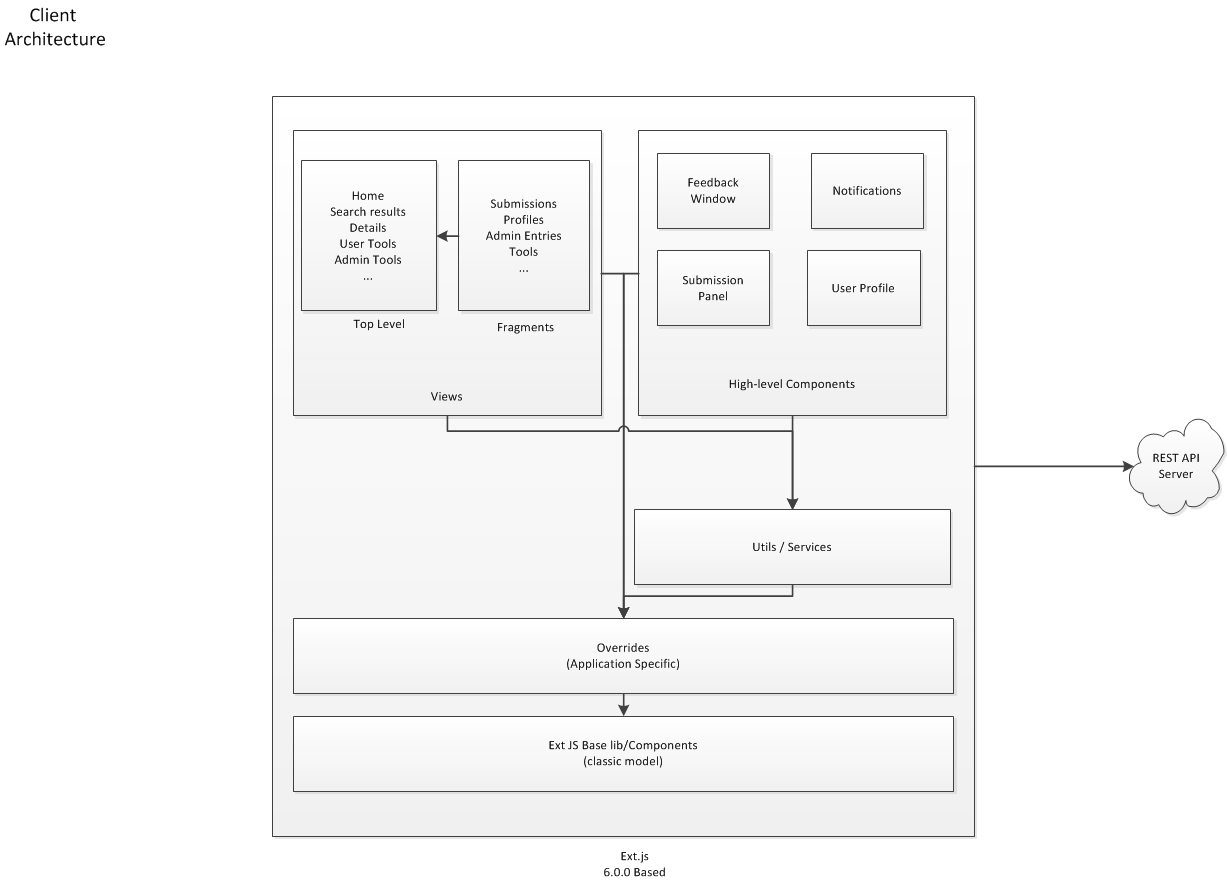
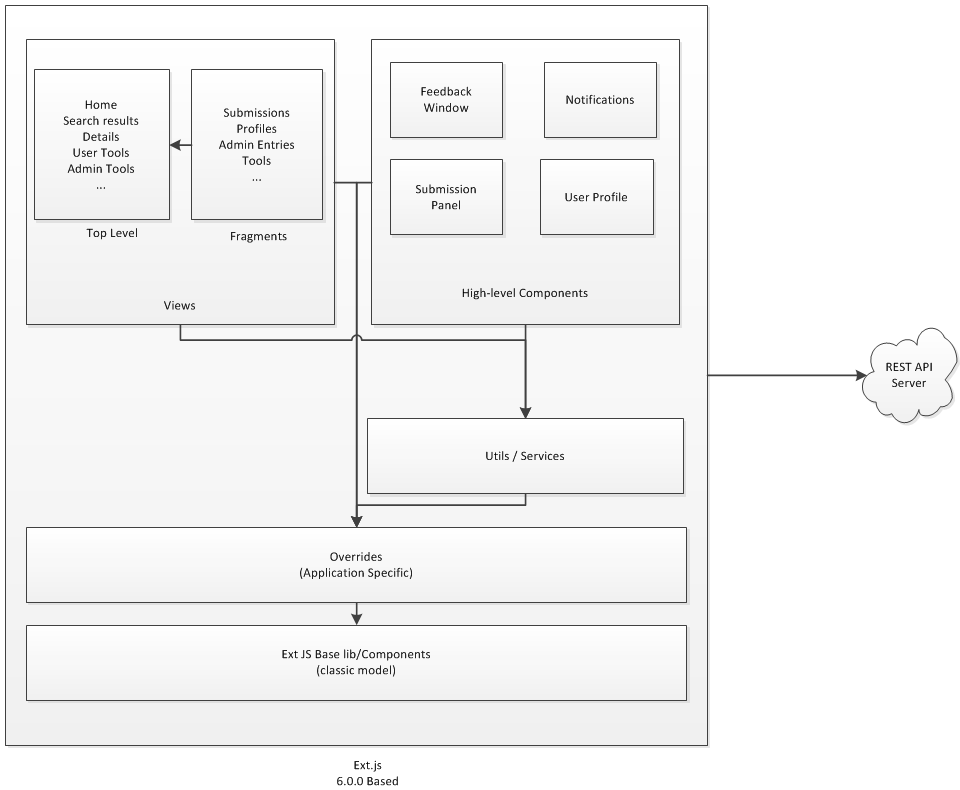
Convert images to figures and remove titles from images

diff --git a/Hugo-StaticGen-Docs/content/dev/Architecture.md b/Hugo-StaticGen-Docs/content/dev/Architecture.md
@@ -7,30 +7,22 @@ weight = 2
 This guide describes the high-level design of the server and client architecture.
 <!--more-->
 
-## 1.  Client Architecture
+## Client Architecture
 
-### 1.1 Client Architecture Diagram
+{{< figure src="/images/client-archtechture-new.png" alt="Client Architecture Diagram" title="Client Architecture Diagram" >}}
 
-![clientarch](/images/client-archtechture-new.png)
-
-Figure 1. Client Architecture Diagram
-
-### 1.2 Client Details
+### Client Details
 
 The client core structure is based on Ext.js which provides UI components and utilities. This significantly reduces third-party dependencies which in turn reduces maintenance, shortens the learning curve, and improves quality and consistency.
 
 In addition, there are application-specific overrides and high-level components created to facilitate reuse.
 The application is composed by stripes layouts with a top-level page and fragment tool pages.
 
-## 2.  Server Architecture
+## Server Architecture
 
-### 2.1 Server Architecture Diagram
+{{< figure src="/images/serverarch.png" alt="Server Architecture Diagram" title="Server Architecture Diagram" >}}
 
-![serverarch](/images/serverarch.png)
-
-Figure 2. Server Architecture Diagram
-
-### 2.2 Server Details
+### Server Details
 
 Component definitions are as follows:
 
@@ -48,9 +40,9 @@ The server build environment relies on the following platforms/tools:
 - **Java** - Core language and platform
 - **Maven** - Used for the project structure, building, and dependency management
 
-## 2.3 Storage Details
+## Storage Details
 
-![storage](/images/storage.png)
+{{< figure src="/images/storage.png" alt="Storage Diagram" title="Storage Diagram" >}}
 
 **File System**  - Holds configuration, resources, media, imports, reports and plugins. By default, under `/var/openstorefront` it can be changed by setting the system property `-Dapplication.datadir=<directory>` on the command line.
 
@@ -58,15 +50,11 @@ The server build environment relies on the following platforms/tools:
 
 **Database** - Holds all entry data and application data.
 
-## 3. Runtime Environment
+## Runtime Environment
 
-### 3.1 Runtime Environment Diagram
+{{< figure src="/images/deployarch.png" title="Runtime Environment Diagram" alt="Runtime Environment Diagram">}}
 
-![deployarch](/images/deployarch.png)
-
-Figure 3. Runtime Environment Diagram
-
-### 3.2 Runtime Details
+### Runtime Details
 
 The runtime environment relies upon the following applications:
 
@@ -76,13 +64,11 @@ The runtime environment relies upon the following applications:
 - **OS/VM** - Is the host machines operating system.
 - **OpenAM** - OpenAM runs externally and a policy agent in Tomcat ensures the site is secure.
 
-### 3.3 Runtime Component Integration Vectors
+### Runtime Component Integration Vectors
 
-![component vectors](/images/civarch.png)
+{{< figure title="Runtime Component Integration Vectors" src="/images/civarch.png" alt="Runtime Component Integration Vectors" >}}
 
-Figure 4. Runtime Component Integration Vectors
-
-### 3.4 Component Integration Vectors Details
+### Component Integration Vectors Details
 
 The component integration vectors (CIV) are shown below.
 
@@ -117,7 +103,7 @@ The CIVs, as defined by the DI2E PMO, are as follows:
     (e.g., subscriber/publisher relationship; A integrates with another
     component that offers data from B).
 
-### 3.5 Ports
+### Ports
 
 The applicable ports are shown below:
 
